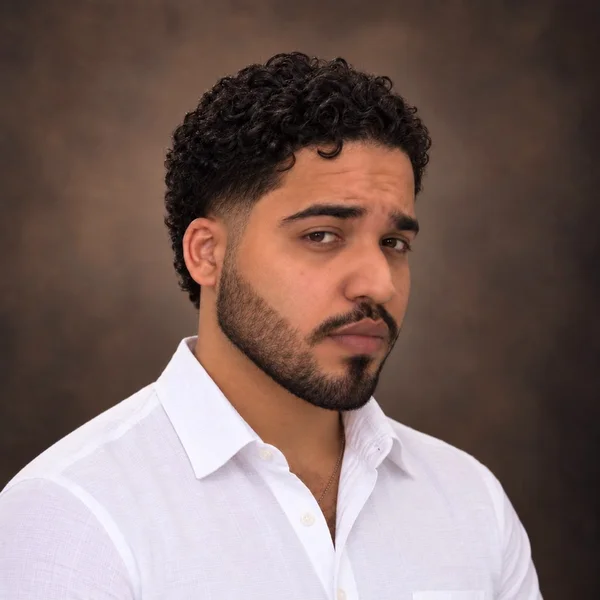
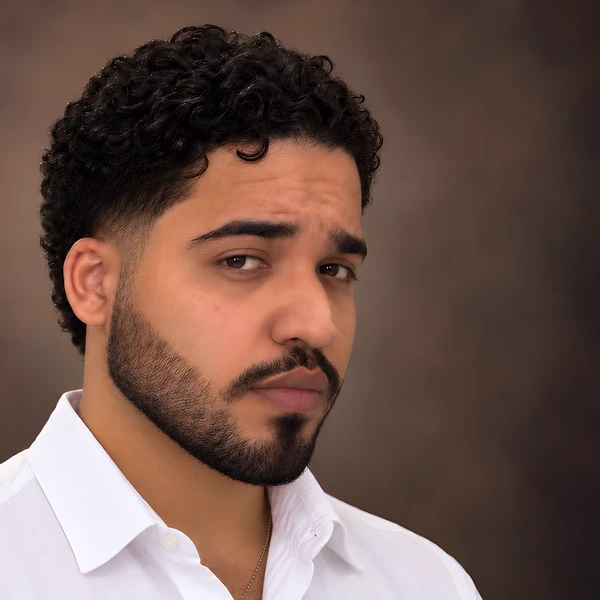
feat(charlistas): add Rafael Almonte and recenter photos 13 to 17

diff --git a/config/speakers.ts b/config/speakers.ts
@@ -11,8 +11,10 @@
  * hombros y se bajó a 600 px. La de Juan Thomas Ángel Montilla llegó por chat
  * (1080 px, de pie frente a la ciudad) y se recortó a 600 px de cabeza y hombros.
  * Emmanuel de la Rosa y Giancarlo Gerdo entregaron fotos de cuerpo entero: se
- * recortaron a cabeza y hombros sin agrandar (230 y 440 px). Las de 800 px se
- * bajaron a 600 px.
+ * recortaron a cabeza y hombros sin agrandar (230 px la de Emmanuel). Las de
+ * 800 px se bajaron a 600 px. Las de Giancarlo Gerdo, Jean Carlos Taveras,
+ * Wilson Toribio, Cristian de la Hoz, Freddy Peña y Rafael Almonte se
+ * recentraron en la cara y se pasaron a 600 px.
  *
  * Quien todavía no tiene foto va sin `photo`, y la tarjeta muestra su inicial.
  *
@@ -99,7 +101,7 @@ export const SPEAKERS: Speaker[] = [
   {
     name: "Giancarlo Gerdo",
     talk: "Ciberinteligencia en el CI/CD: Detectando fugas y amenazas antes del deploy",
-    photo: { src: "/speakers/giancarlo-gerdo.webp", width: 440, height: 440 },
+    photo: { src: "/speakers/giancarlo-gerdo.webp", width: 600, height: 600 },
   },
   {
     name: "Jean Carlos Taveras",
@@ -120,5 +122,10 @@ export const SPEAKERS: Speaker[] = [
     name: "Freddy Peña",
     talk: "Destilando el dominio: Cuando el código deja de ser el protagonista",
     photo: { src: "/speakers/freddy-pena.webp", width: 600, height: 600 },
+  },
+  {
+    name: "Rafael Almonte",
+    talk: "Let AI Query Your Graph: Building Safe NLP-Driven Data Access with Java and Neo4j",
+    photo: { src: "/speakers/rafael-almonte.webp", width: 600, height: 600 },
   },
 ];
